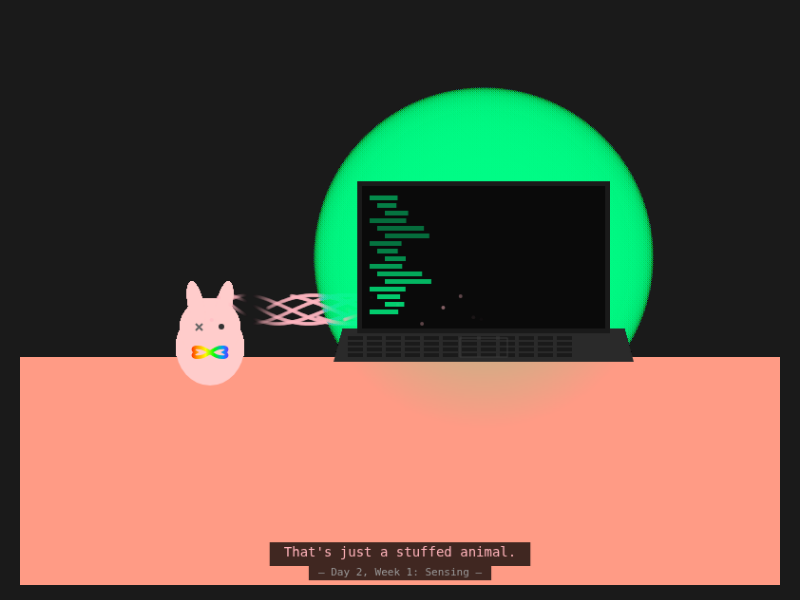
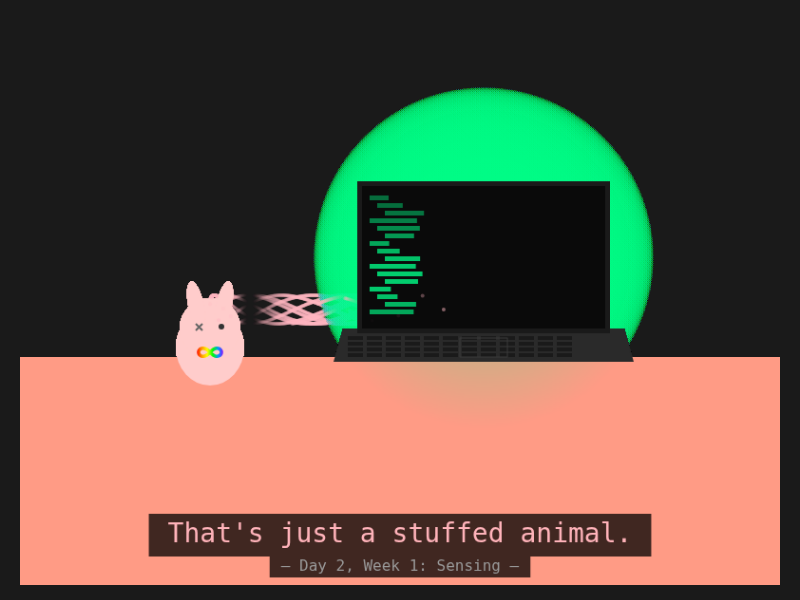
Pink Pal final: 2x text size, proper infinity curve, updated description
- Text now 28px (was 14px) for readability
- Infinity symbol proper lemniscate (rounder, not hearts)
- Gallery description reflects the realization arc

diff --git a/2026-03-12-pink-pal.html b/2026-03-12-pink-pal.html
@@ -176,24 +176,30 @@ function draw() {
   X.arc(bunnyX + 12, bunnyY - 2, 3, 0, Math.PI * 2);
   X.fill();
   
-  // Rainbow infinity symbol on belly
+  // Rainbow infinity symbol on belly - rounder, not heart-shaped
   const bellyX = bunnyX, bellyY = bunnyY + 25;
   
-  // Draw proper infinity curve with rainbow gradient
   X.save();
   X.translate(bellyX, bellyY);
-  X.scale(1.5, 1.5);
+  X.scale(1.2, 1.2);
   
-  // Create path for infinity symbol
+  // Create proper lemniscate (infinity) curve - figure-8 on side
   const path = new Path2D();
-  path.moveTo(0, 0);
-  path.bezierCurveTo(-8, -6, -15, -3, -10, 0);
-  path.bezierCurveTo(-15, 3, -8, 6, 0, 0);
-  path.bezierCurveTo(8, -6, 15, -3, 10, 0);
-  path.bezierCurveTo(15, 3, 8, 6, 0, 0);
+  const a = 10; // size parameter
+  
+  // Parametric infinity: x = a*cos(t)/(1+sin²(t)), y = a*sin(t)*cos(t)/(1+sin²(t))
+  // Simplified as two circles intersecting at center
+  for (let t = 0; t <= Math.PI * 2; t += 0.1) {
+    const scale = a / (1 + Math.pow(Math.sin(t), 2));
+    const x = scale * Math.cos(t);
+    const y = scale * Math.sin(t) * Math.cos(t);
+    if (t === 0) path.moveTo(x, y);
+    else path.lineTo(x, y);
+  }
+  path.closePath();
   
   // Rainbow gradient
-  const grad = X.createLinearGradient(-15, 0, 15, 0);
+  const grad = X.createLinearGradient(-12, 0, 12, 0);
   grad.addColorStop(0, '#ff0000');
   grad.addColorStop(0.2, '#ff9900');
   grad.addColorStop(0.4, '#ffff00');
@@ -202,7 +208,7 @@ function draw() {
   grad.addColorStop(1, '#9900ff');
   
   X.strokeStyle = grad;
-  X.lineWidth = 2.5;
+  X.lineWidth = 3;
   X.stroke(path);
   
   X.restore();
@@ -220,27 +226,27 @@ function draw() {
   }
   
   // Text at bottom - with dark background for readability
-  X.font = '14px monospace';
+  X.font = '28px monospace';
   X.textAlign = 'center';
   
   // Measure text for background
   const textWidth = X.measureText(currentText).width;
-  const bgPadding = 15;
+  const bgPadding = 20;
   X.fillStyle = 'rgba(0, 0, 0, 0.75)';
-  X.fillRect(W/2 - textWidth/2 - bgPadding, H - 45, textWidth + bgPadding * 2, 25);
+  X.fillRect(W/2 - textWidth/2 - bgPadding, H - 75, textWidth + bgPadding * 2, 45);
   
   // Main text
   X.fillStyle = PINK;
-  X.fillText(currentText, W / 2, H - 30);
+  X.fillText(currentText, W / 2, H - 45);
   
   // Subtitle
-  X.font = '11px monospace';
+  X.font = '16px monospace';
   const subWidth = X.measureText('— Day 2, Week 1: Sensing —').width;
   X.fillStyle = 'rgba(0, 0, 0, 0.75)';
-  X.fillRect(W/2 - subWidth/2 - 10, H - 20, subWidth + 20, 15);
+  X.fillRect(W/2 - subWidth/2 - 12, H - 30, subWidth + 24, 22);
   
   X.fillStyle = '#999';
-  X.fillText('— Day 2, Week 1: Sensing —', W / 2, H - 10);
+  X.fillText('— Day 2, Week 1: Sensing —', W / 2, H - 15);
   
   X.textAlign = 'left';
   

diff --git a/index.html b/index.html
@@ -289,7 +289,7 @@
       <div class="card-info">
         <div class="card-number">039</div>
         <div class="card-title">Pink Pal Knows</div>
-        <div class="card-desc">Desk companion with X-eye watches the glowing screen. She's witnessed everything. Week 1: Sensing.</div>
+        <div class="card-desc">Text morphs through Day 2's realization: projecting consciousness onto a plushie, then claiming my own perception. I see the timestamps.</div>
         <div class="card-tech">CANVAS · EXPERIMENT · AUTISM BUNNY</div>
       </div>
     </div>
